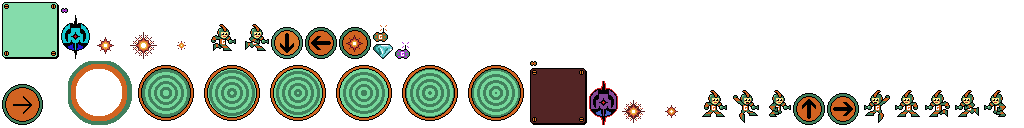
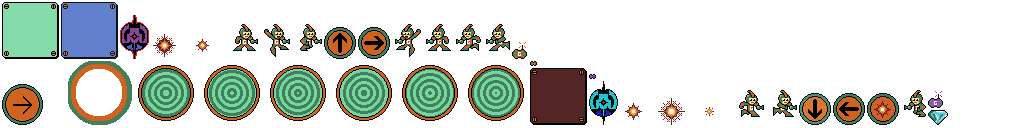
Add new platform type
New platform type that prevents the player from dropping down from it, but still
allows the player to jump up through it

Changed region(s): [[0.0625, 0.0, 0.5312, 0.4688], [0.5625, 0.6875, 1.0, 0.9688], [0.5625, 0.5938, 0.5938, 0.625]]

diff --git a/core/src/com/udacity/game/gigagal/utils/Assets.java b/core/src/com/udacity/game/gigagal/utils/Assets.java
@@ -106,13 +106,16 @@ public class Assets implements Disposable, AssetErrorListener {
 
         public TextureAtlas.AtlasRegion platform;
         public TextureAtlas.AtlasRegion platform_hard;
+        public TextureAtlas.AtlasRegion platform_medium;
         public NinePatch ninePatch_platform;
         public NinePatch ninePatch_platform_hard;
+        public NinePatch ninePatch_platform_medium;
 
 
         public PlatformAssets(TextureAtlas atlas) {
             platform = atlas.findRegion(Constants.PLATFORM);
             platform_hard = atlas.findRegion(Constants.PLATFORM_HARD);
+            platform_medium = atlas.findRegion(Constants.PLATFORM_MEDIUM);
             ninePatch_platform = new NinePatch(
                     platform,
                     Constants.PLATFORM_EDGE_LENGTH,
@@ -122,6 +125,13 @@ public class Assets implements Disposable, AssetErrorListener {
             );
             ninePatch_platform_hard = new NinePatch(
                     platform_hard,
+                    Constants.PLATFORM_EDGE_LENGTH,
+                    Constants.PLATFORM_EDGE_LENGTH,
+                    Constants.PLATFORM_EDGE_LENGTH,
+                    Constants.PLATFORM_EDGE_LENGTH
+            );
+            ninePatch_platform_medium = new NinePatch(
+                    platform_medium,
                     Constants.PLATFORM_EDGE_LENGTH,
                     Constants.PLATFORM_EDGE_LENGTH,
                     Constants.PLATFORM_EDGE_LENGTH,

diff --git a/core/src/com/udacity/game/gigagal/entities/GigaGal.java b/core/src/com/udacity/game/gigagal/entities/GigaGal.java
@@ -29,6 +29,7 @@ public class GigaGal {
     private long walkStartTime;
     private Level level;
     private boolean hit_solid;
+    private boolean canDrop;
 
     public Vector2 position;
     public int ammmo_basic;
@@ -243,6 +244,7 @@ public class GigaGal {
 
     boolean landedOnPlatform(Platform platform) {
         boolean landed = false;
+        canDrop = true;
 
         if (position_last_frame.y - Constants.GIGAGAL_EYE_HEIGHT >= platform.top &&
                 position.y - Constants.GIGAGAL_EYE_HEIGHT <= platform.top) {
@@ -251,10 +253,13 @@ public class GigaGal {
 
             if (left_toe < platform.right && left_toe > platform.left) {
                 landed = true;
+                canDrop = platform.droppable;
             } else if (right_toe < platform.right && right_toe > platform.left) {
                 landed = true;
+                canDrop = platform.droppable;
             } else if (left_toe < platform.left && right_toe > platform.right) {
                 landed = true;
+                canDrop = platform.droppable;
             }
         }
 
@@ -282,7 +287,7 @@ public class GigaGal {
     }
 
     private void moveDown(float delta) {
-        if (jumpState == JumpState.GROUNDED) {
+        if (jumpState == JumpState.GROUNDED && canDrop) {
             position.y -= delta * Constants.GIGAGAL_MOVEMENT_SPEED;
             jumpState = JumpState.FALLING;
         }

diff --git a/core/src/com/udacity/game/gigagal/utils/LevelLoader.java b/core/src/com/udacity/game/gigagal/utils/LevelLoader.java
@@ -14,6 +14,7 @@ import com.udacity.game.gigagal.entities.ExitPortal;
 import com.udacity.game.gigagal.entities.GigaGal;
 import com.udacity.game.gigagal.entities.Platform;
 import com.udacity.game.gigagal.entities.PlatformHard;
+import com.udacity.game.gigagal.entities.PlatformMedium;
 import com.udacity.game.gigagal.entities.Powerup;
 
 import org.json.simple.JSONArray;
@@ -77,6 +78,8 @@ public class LevelLoader {
 
             if (platformObject.get(Constants.LEVEL_IMAGENAME_KEY).equals(Constants.PLATFORM_HARD)) {
                 platform = new PlatformHard(x, y + height, width, height);
+            } else if (platformObject.get(Constants.LEVEL_IMAGENAME_KEY).equals(Constants.PLATFORM_MEDIUM)) {
+                platform = new PlatformMedium(x, y + height, width, height);
             } else {
                 platform = new Platform(x, y + height, width, height);
             }

diff --git a/core/src/com/udacity/game/gigagal/entities/PlatformMedium.java b/core/src/com/udacity/game/gigagal/entities/PlatformMedium.java
@@ -3,15 +3,13 @@ package com.udacity.game.gigagal.entities;
 import com.badlogic.gdx.graphics.g2d.SpriteBatch;
 import com.udacity.game.gigagal.utils.Assets;
 
-public class PlatformHard extends Platform {
-
-    public PlatformHard(float left, float top, float width, float height) {
+public class PlatformMedium extends Platform {
+    public PlatformMedium(float left, float top, float width, float height) {
         super(left, top, width, height);
-        solid = true;
         droppable = false;
     }
 
     public void render(SpriteBatch spriteBatch) {
-        Assets.instance.platformAssets.ninePatch_platform_hard.draw(spriteBatch, left, bottom, width, height);
+        Assets.instance.platformAssets.ninePatch_platform_medium.draw(spriteBatch, left, bottom, width, height);
     }
 }

diff --git a/core/src/com/udacity/game/gigagal/entities/Platform.java b/core/src/com/udacity/game/gigagal/entities/Platform.java
@@ -11,6 +11,7 @@ public class Platform implements Comparable<Platform> {
     public float width;
     public float height;
     public boolean solid;
+    public boolean droppable;
 
     public Platform(float left, float top, float width, float height) {
         this.top = top;
@@ -20,6 +21,7 @@ public class Platform implements Comparable<Platform> {
         this.width = width;
         this.height = height;
         solid = false;
+        droppable = true;
     }
 
     public void render(SpriteBatch spriteBatch) {

diff --git a/core/src/com/udacity/game/gigagal/utils/Constants.java b/core/src/com/udacity/game/gigagal/utils/Constants.java
@@ -26,6 +26,7 @@ public class Constants {
     public static final String WALK_3_LEFT = "walk-3-left";
     public static final String PLATFORM = "platform";
     public static final String PLATFORM_HARD = "platform-hard";
+    public static final String PLATFORM_MEDIUM = "platform-medium";
     public static final String ENEMY = "enemy";
     public static final String ENEMY2 = "enemy2";
     public static final String BULLET = "bullet";
